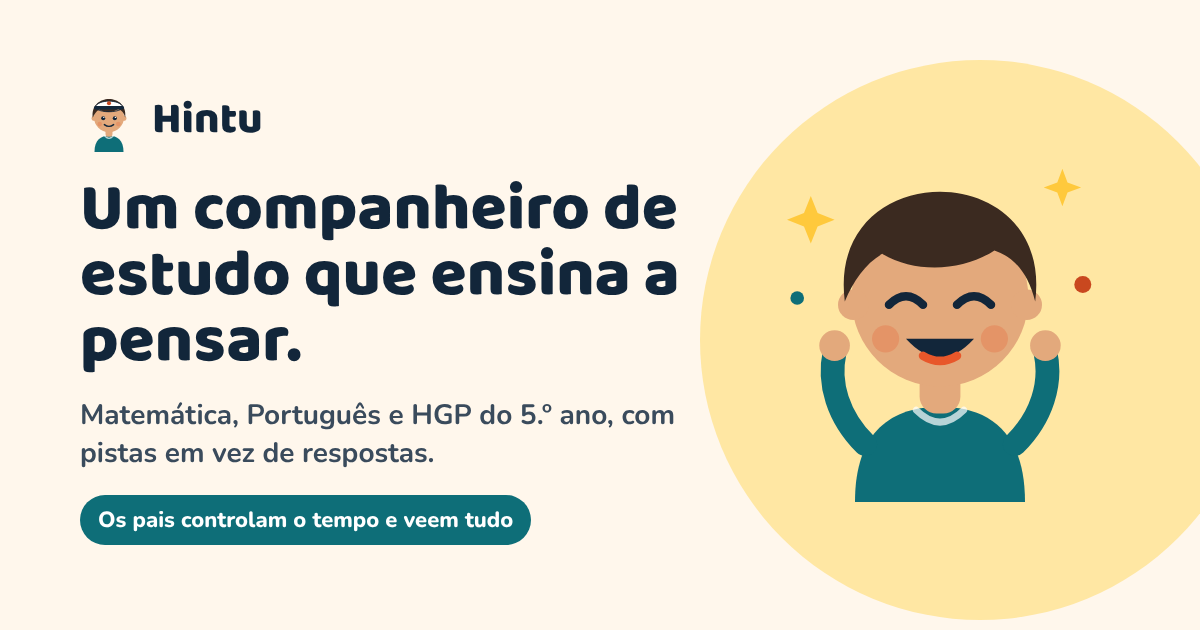
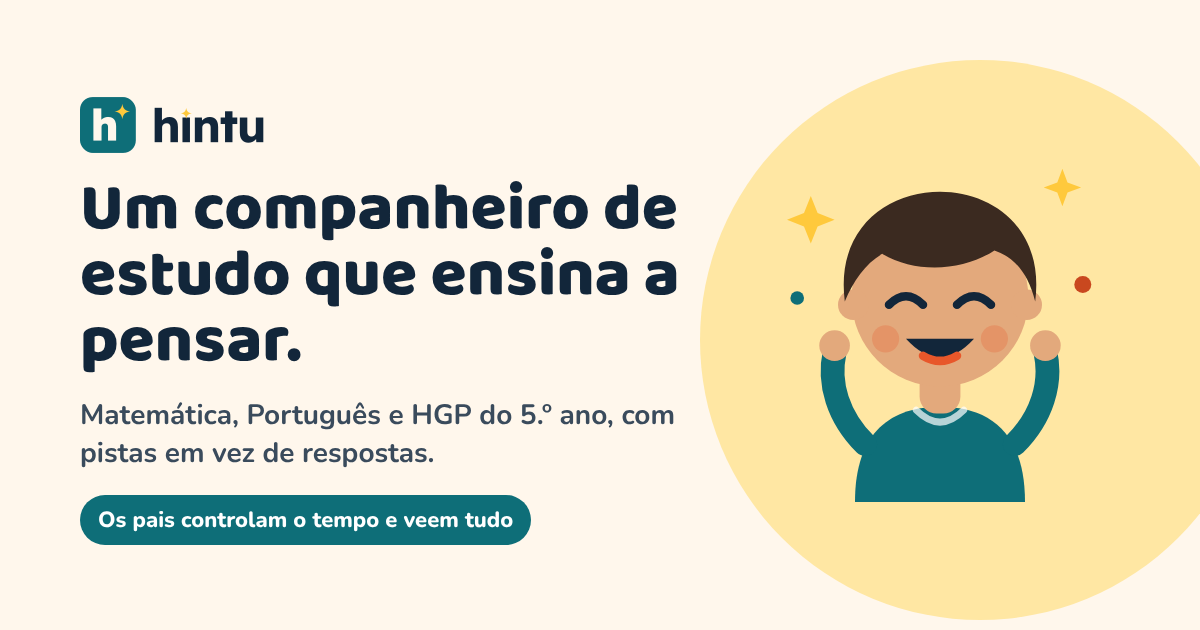
Logótipo Hintu (direção B · Pista): cabeçalho, ícones e imagem de partilha
Claude-Session: https://claude.ai/code/session_014ADP3ytd3cA4nYbQ4ghDWy

Changed region(s): [[0.0617, 0.1508, 0.2467, 0.2413]]

diff --git a/index.html b/index.html
@@ -7,22 +7,22 @@
 <meta name="description" content="Exercícios do 5.º ano de Matemática, Português e HGP com um companheiro de IA que dá pistas em vez de respostas. Os pais decidem o tempo e o horário e veem as conversas.">
 <link rel="canonical" href="https://hintu.pt/">
 <meta name="theme-color" content="#FFF7EC">
-<link rel="icon" href="/favicon.svg" type="image/svg+xml">
-<link rel="icon" href="/favicon.ico" sizes="32x32">
-<link rel="apple-touch-icon" href="/apple-touch-icon.png">
+<link rel="icon" href="/favicon.svg?v=2" type="image/svg+xml">
+<link rel="icon" href="/favicon.ico?v=2" sizes="32x32">
+<link rel="apple-touch-icon" href="/apple-touch-icon.png?v=2">
 <meta property="og:type" content="website">
 <meta property="og:locale" content="pt_PT">
 <meta property="og:site_name" content="Hintu">
 <meta property="og:url" content="https://hintu.pt/">
 <meta property="og:title" content="Hintu · O companheiro de estudo que ensina a pensar">
 <meta property="og:description" content="Exercícios do 5.º ano com um companheiro de IA que dá pistas em vez de respostas. Os pais controlam o tempo e veem tudo.">
-<meta property="og:image" content="https://hintu.pt/og.png">
+<meta property="og:image" content="https://hintu.pt/og.png?v=2">
 <meta property="og:image:width" content="1200">
 <meta property="og:image:height" content="630">
 <meta name="twitter:card" content="summary_large_image">
 <link rel="preload" href="/baloo-2-latin-800-normal.woff2" as="font" type="font/woff2" crossorigin>
 <link rel="preload" href="/nunito-latin-400-normal.woff2" as="font" type="font/woff2" crossorigin>
-<link rel="stylesheet" href="/site.css">
+<link rel="stylesheet" href="/site.css?v=2">
 <script type="application/ld+json">
 {
   "@context": "https://schema.org",
@@ -76,7 +76,7 @@
 
 <header class="site">
   <nav class="main wrap" aria-label="Principal">
-    <a href="/" class="logo" aria-label="Hintu, página inicial"><img src="/v-curto-chapeu.svg" alt="" width="40" height="44"><span>Hintu</span></a>
+    <a href="/" class="logo" aria-label="Hintu, página inicial"><img src="/logo-hintu.svg" alt="Hintu" width="120" height="36"></a>
     <button class="menu-btn" type="button" aria-label="Abrir menu" aria-expanded="false" aria-controls="nav-links">
       <svg width="22" height="22" viewBox="0 0 24 24" aria-hidden="true" fill="none" stroke="#12263A" stroke-width="2.5" stroke-linecap="round"><path d="M4 7h16M4 12h16M4 17h16"/></svg>
     </button>

diff --git a/site.css b/site.css
@@ -36,8 +36,7 @@ h1,h2,.display{font-family:'Baloo 2',sans-serif;font-weight:800}
 header.site{position:sticky;top:0;z-index:20;background:rgba(255,247,236,.98);backdrop-filter:saturate(1.2) blur(8px);-webkit-backdrop-filter:saturate(1.2) blur(8px);border-bottom:1px solid var(--line)}
 nav.main{display:flex;align-items:center;justify-content:space-between;gap:16px;padding-top:12px;padding-bottom:12px}
 .logo{display:flex;align-items:center;gap:10px;text-decoration:none;color:var(--ink)}
-.logo img{width:40px;height:44px}
-.logo span{font-family:'Baloo 2',sans-serif;font-size:26px;font-weight:800}
+.logo img{height:36px;width:auto;display:block}
 .nav-links{display:flex;align-items:center;gap:24px;font-weight:700;font-size:15px}
 .nav-links a:not(.btn){color:var(--ink);text-decoration:none}
 .nav-links a:not(.btn):hover{color:var(--sea)}
@@ -170,8 +169,7 @@ footer.site nav{display:flex;gap:20px;flex-wrap:wrap}
 /* Mobile */
 @media (max-width:760px){
   html{scroll-padding-top:72px}
-  .logo img{width:32px;height:35px}
-  .logo span{font-size:22px}
+  .logo img{height:30px}
   .menu-btn{display:flex}
   .nav-links{display:none;position:absolute;left:0;right:0;top:100%;background:var(--sand);border-bottom:1px solid var(--line);flex-direction:column;align-items:stretch;gap:0;padding:8px 20px 16px}
   .nav-links.open{display:flex}

diff --git a/privacidade.html b/privacidade.html
@@ -7,16 +7,16 @@
 <meta name="description" content="Que dados a Hintu guarda, para quê, quem mais os vê e como os pode apagar. App de estudo do 5.º ano com companheiro de IA.">
 <link rel="canonical" href="https://hintu.pt/privacidade">
 <meta name="theme-color" content="#FFF7EC">
-<link rel="icon" href="/favicon.svg" type="image/svg+xml">
-<link rel="icon" href="/favicon.ico" sizes="32x32">
-<link rel="apple-touch-icon" href="/apple-touch-icon.png">
-<link rel="stylesheet" href="/site.css">
+<link rel="icon" href="/favicon.svg?v=2" type="image/svg+xml">
+<link rel="icon" href="/favicon.ico?v=2" sizes="32x32">
+<link rel="apple-touch-icon" href="/apple-touch-icon.png?v=2">
+<link rel="stylesheet" href="/site.css?v=2">
 </head>
 <body>
 <a class="skip" href="#conteudo">Saltar para o conteúdo</a>
 <header class="site">
   <nav class="main wrap" aria-label="Principal">
-    <a href="/" class="logo" aria-label="Hintu, página inicial"><img src="/v-curto-chapeu.svg" alt="" width="40" height="44"><span>Hintu</span></a>
+    <a href="/" class="logo" aria-label="Hintu, página inicial"><img src="/logo-hintu.svg" alt="Hintu" width="120" height="36"></a>
     <a href="/" class="btn btn-coral btn-sm">Voltar ao início</a>
   </nav>
 </header>

diff --git a/404.html b/404.html
@@ -5,8 +5,8 @@
 <meta name="viewport" content="width=device-width, initial-scale=1">
 <title>Página não encontrada · Hintu</title>
 <meta name="robots" content="noindex">
-<link rel="icon" href="/favicon.svg" type="image/svg+xml">
-<link rel="stylesheet" href="/site.css">
+<link rel="icon" href="/favicon.svg?v=2" type="image/svg+xml">
+<link rel="stylesheet" href="/site.css?v=2">
 </head>
 <body>
 <main class="legal" style="align-items:center;text-align:center;padding-top:96px">
